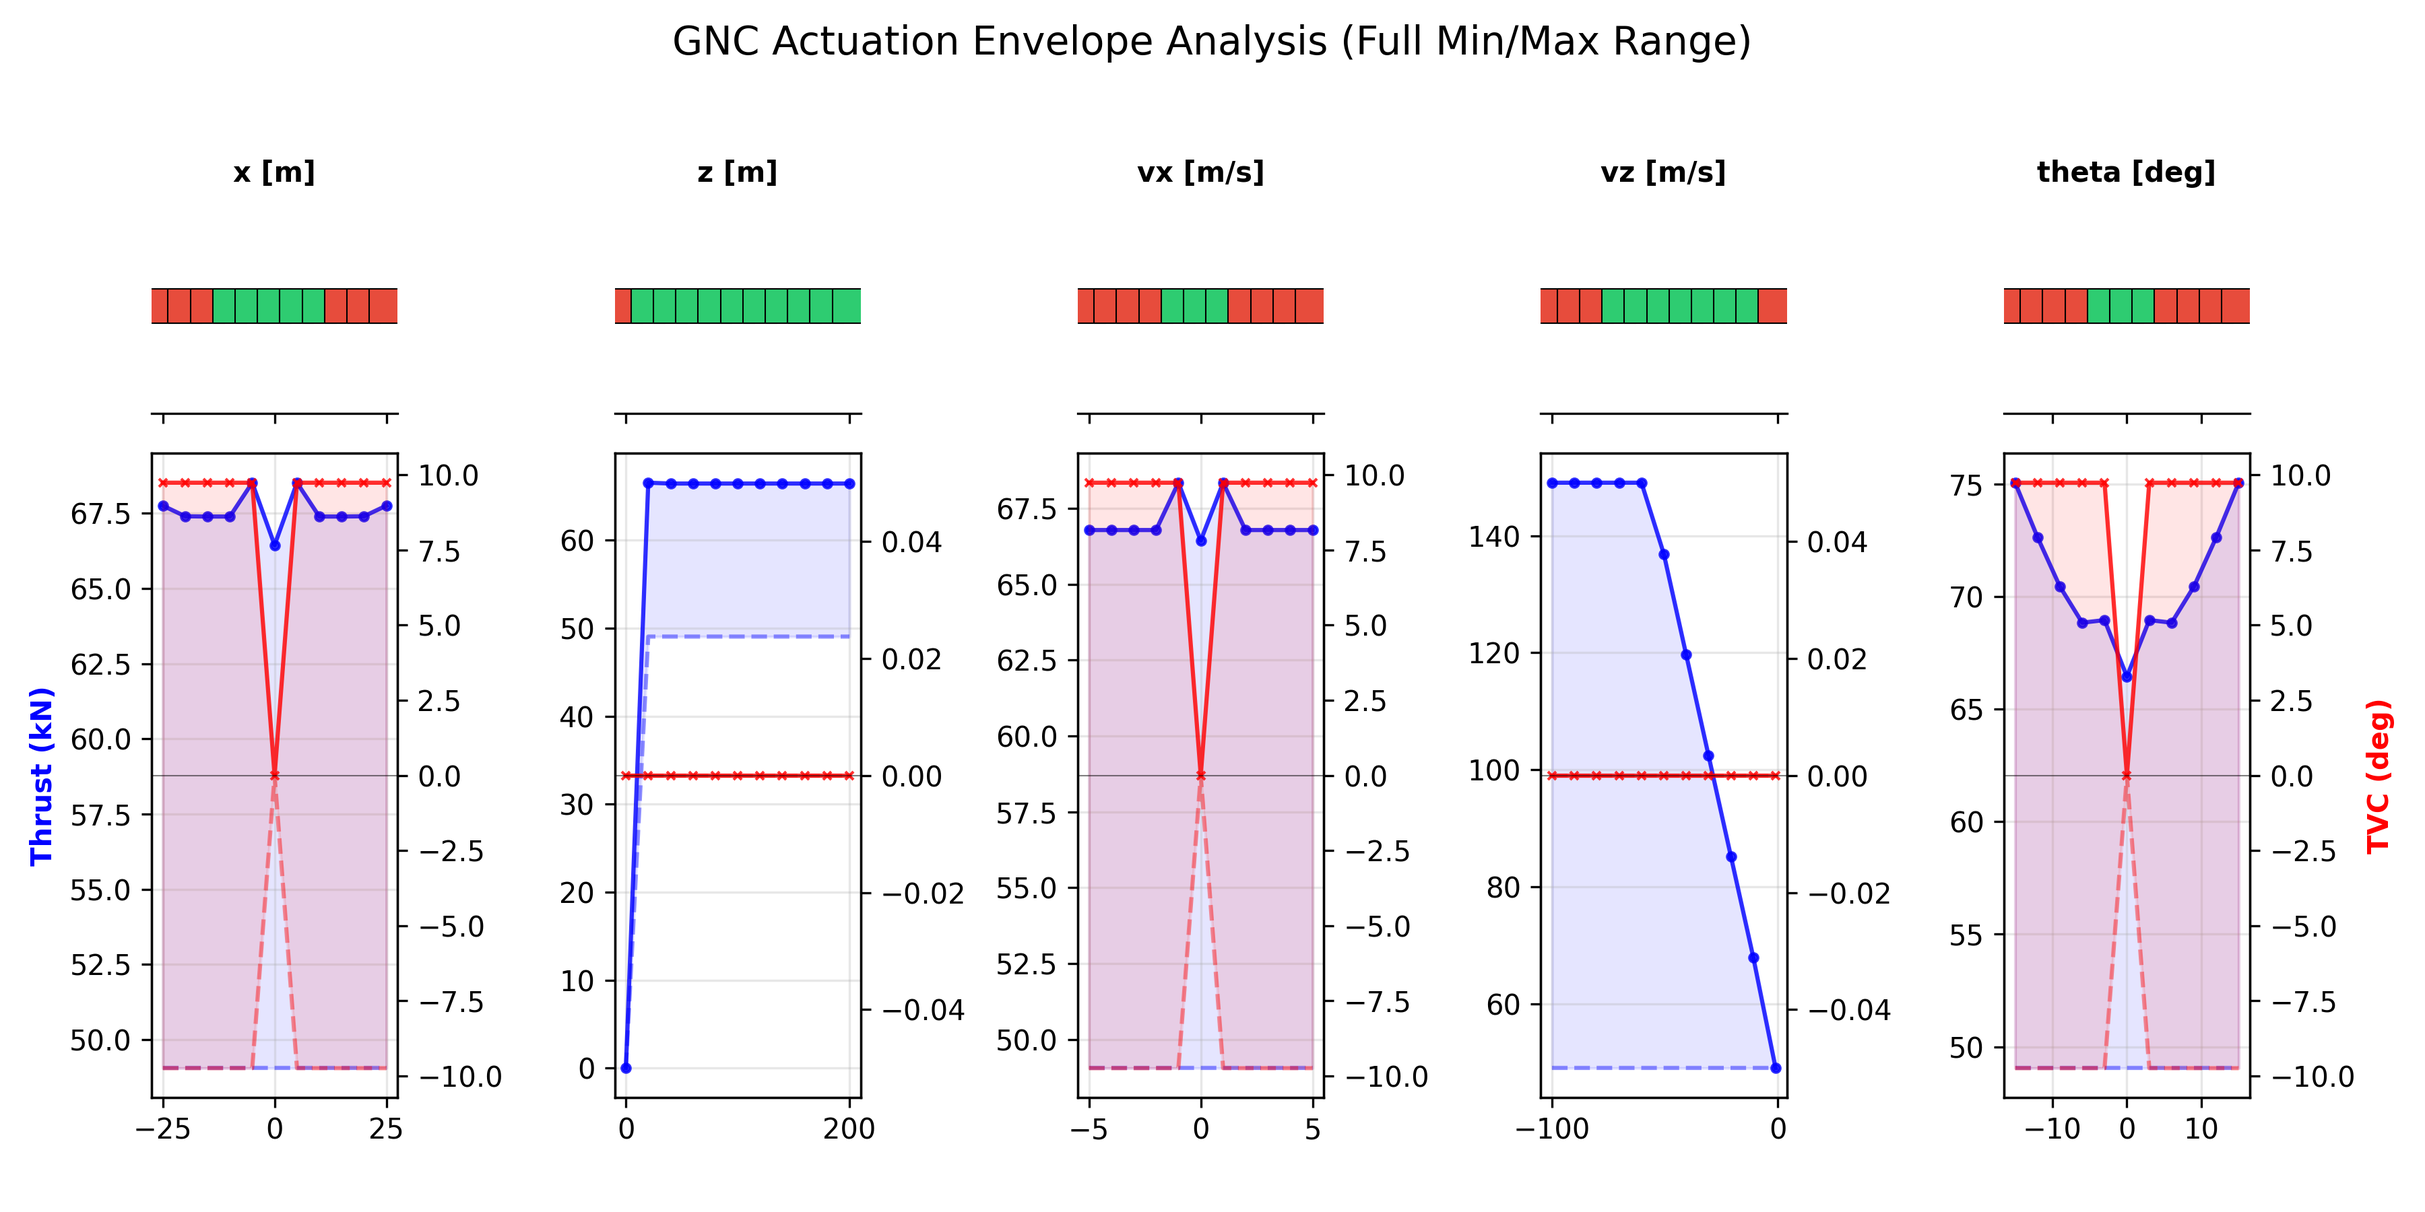
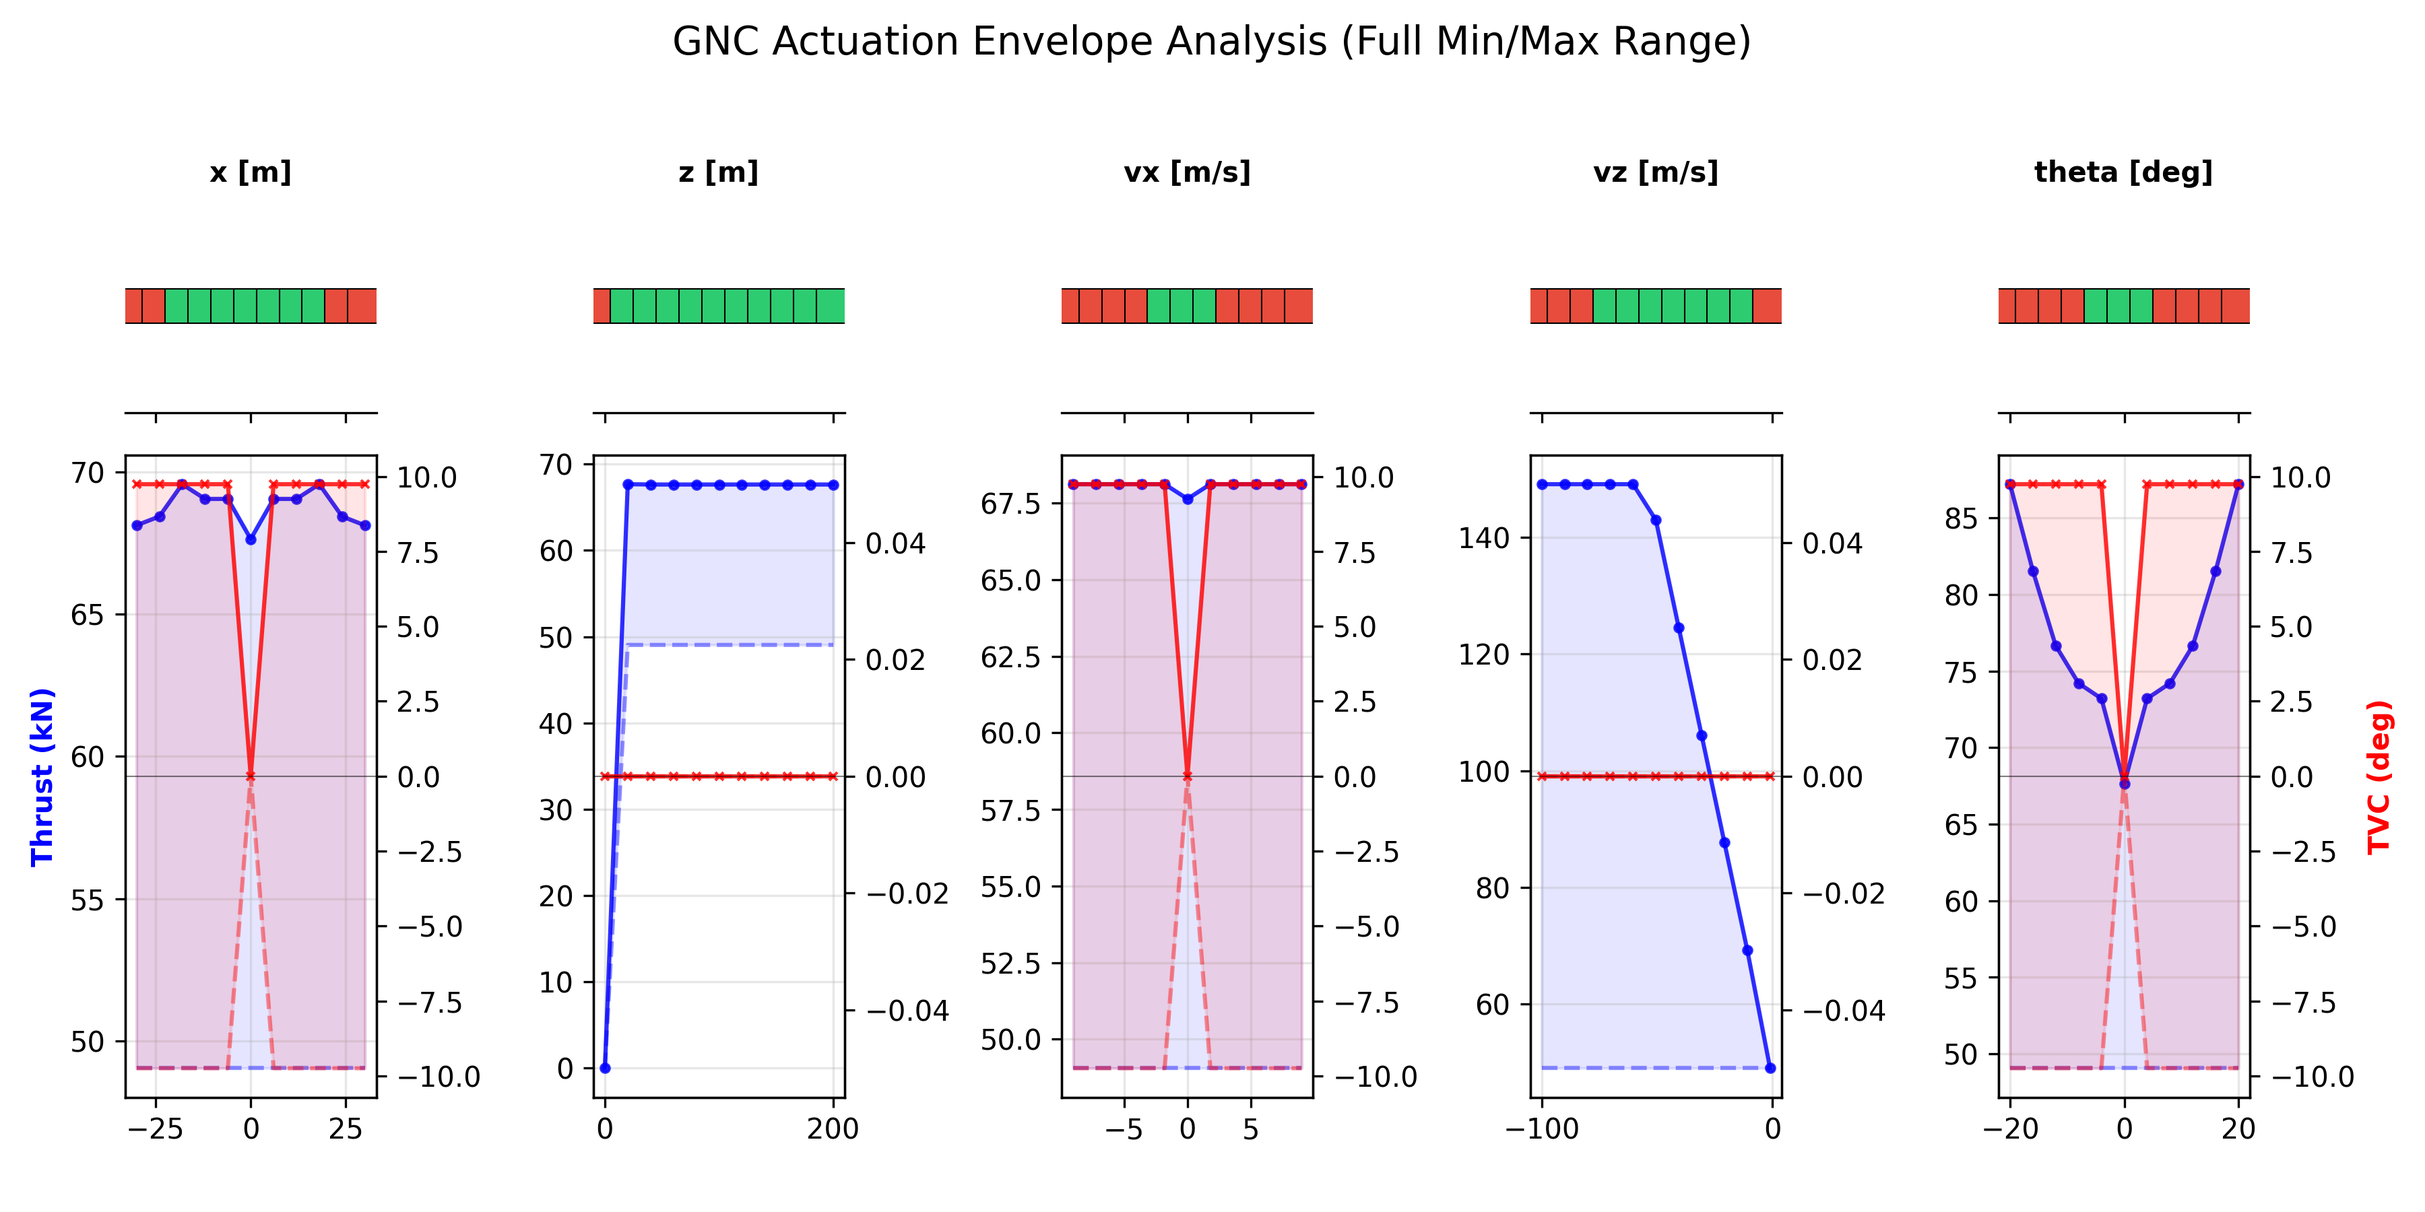
Undone some manual tweaks on gains

diff --git a/src/control/controller.py b/src/control/controller.py
@@ -26,8 +26,8 @@ class FlightController:
         # Position Loop (Outer)
         # Target: x -> commands theta_cmd
         pos = gains['position']
-        self.pos_pid = PID(kp=pos['kp'], ki=pos['ki'], kd=pos['kd'], 
-                           output_limits=(-0.35, 0.35)) # ~20 deg tilt limit
+        self.pos_pid = PID(kp=pos['kp'], ki=pos['ki'], kd=pos['kd'],
+                           output_limits=(-0.02, 0.02)) # ~1 deg tilt limit
         
         # Attitude Loop (Inner)
         # Target: theta -> commands gimbal delta
@@ -35,7 +35,8 @@ class FlightController:
         self.att_pid = PID(kp=att['kp'], ki=att['ki'], kd=att['kd'], 
                            output_limits=(-0.17, 0.17)) # ~10 deg gimbal limit
 
-    def update(self, state, target_state, dt):
+    def update(self, state, target_state, dt,
+               disable_att=False, disable_pos=False, disable_alt=False):
         """
         state: [x, z, theta, vx, vz, vtheta]
         target_state: [x_ref, z_ref, theta_ref, vx_ref, vz_ref, vtheta_ref]
@@ -43,26 +44,24 @@ class FlightController:
         x, z, theta, vx, vz, vtheta = state
         x_ref, z_ref, _, _, vz_ref, _ = target_state
 
-        # --- Horizontal / Rotational Axis (Nested Loop Closure) ---
+        # Horizontal / Rotational Axis (Nested Loop Closure)
         # Outer Loop: Calculate required tilt (theta) to fix lateral position
-        x_error = (x_ref - x)
-        vx_error = (0 - vx) * 4 # Assuming we want 0 lateral speed at the target
-        theta_cmd = self.pos_pid.compute(x_error + vx_error, dt)        
-        theta_cmd /= 15.0
+        theta_cmd = 0
+        if not disable_pos:
+            x_error = (x_ref - x)
+            theta_cmd = self.pos_pid.compute(x_error, dt)
 
-        # landing smoothing
-        z_landing = 1.0
-        if z < z_landing: theta_cmd *= (z - 0.5 * 0) / z_landing
-        
+
         # Inner Loop: Calculate required gimbal (delta) to achieve that tilt
-        att_error = theta_cmd - theta
-        delta_cmd = - self.att_pid.compute(att_error, dt)
-
-        # --- Vertical Axis ---
-        alt_error = z_ref - z
-        vel_error = (vz_ref - vz) * 0.1  # Difference between target speed and current speed
-        # Feedforward: PID correction + Gravity cancellation (feedforward)
-        thrust_cmd = self.alt_pid.compute(alt_error + vel_error, dt) + (self.m * self.g)
+        delta_cmd = 0
+        if not disable_att:
+            att_error = theta_cmd - theta
+            delta_cmd = self.att_pid.compute(att_error, dt)
+            
+        thrust_cmd = self.m * self.g # Gravity cancellation (feedforward)
+        if not disable_alt:
+            alt_error = z_ref - z
+            thrust_cmd += self.alt_pid.compute(alt_error, dt)
 
         return thrust_cmd, delta_cmd, theta_cmd
     
@@ -76,10 +75,7 @@ if __name__ == "__main__":
     # Format: (Scenario Name, [x, z, theta, vx, vz, vtheta])
     scenarios = [
         ("Nominal",                 [ 0.0, 150.0, 0.0 , 0.0, -10.0, 0.00]),
-        ("High Altitude Descent",   [ 3.0, 100.0, 0.01, 0.1, -9.0, 0.01]),
-        ("Lateral Correction",      [-5.0,  50.0, 0.0 , 0.2, -5.0, 0.0]),
-        ("Near Touchdown",          [ 0.5,   0.8, 0.01, 0.1, -1.0, 0.0]),
-        ("Stationary/Hover",        [ 0.0,  20.0, 0.0 , 0.0, 0.0, 0.0]),
+        ("High Altitude Descent",   [ 2.0, 100.0, 0.01, 1.0, -5.0 , 0.01]),
     ]
 
     print("=" * 60)

diff --git a/src/embedded/src/GNCController.cpp b/src/embedded/src/GNCController.cpp
@@ -15,25 +15,15 @@ ControlCommands GNCController::update(const VehicleState& state, float dt) {
 
     // Vertical Axis
     float alt_error = TARGET_Z - state.z;
-    float vel_error = (TARGET_VZ - state.vz) * 0.1f;
-    cmd.thrust_N = alt_pid.compute(alt_error + vel_error, dt_protected) + HOVER_THRUST;
-       
-    // Horizontal / Rotational Axis
-    float x_error = TARGET_X - state.x;
-    float vx_error = (TARGET_VX - state.vx) * 4.0f;
+    cmd.thrust_N = alt_pid.compute(alt_error, dt_protected) + HOVER_THRUST;
     
-    // Outer Loop: Calculate required tilt
-    float theta_cmd = pos_pid.compute(x_error + vx_error, dt_protected) / 15.0f;
-    
-    // Landing Smoothing
-    const float z_landing = 1.0f;
-    if (state.z < z_landing) {
-        theta_cmd *= (state.z) / z_landing;
-    }
+    // Outer Loop: Calculate required tilt   
+    float x_error = TARGET_X - state.x;    
+    float theta_cmd = pos_pid.compute(x_error, dt_protected);
     
     // Inner Loop: Calculate required gimbal (delta)
     float att_error = theta_cmd - state.theta;
-    cmd.tvc_angle_rad = -att_pid.compute(att_error, dt_protected);
+    cmd.tvc_angle_rad = att_pid.compute(att_error, dt_protected);
     
     // Apply safety limits (clamping)
     apply_safety_limits(cmd);
@@ -46,7 +36,7 @@ void GNCController::apply_safety_limits(ControlCommands& commands) {
     commands.thrust_N = std::clamp(commands.thrust_N, MIN_THRUST, MAX_THRUST);
     
     // Clamp TVC to gimbal mechanical stops
-    float max_tvc_rad = MAX_TVC_DEG * (PI / 180.0f);
+    float max_tvc_rad = MAX_TVC_DEG * DEG_TO_RAD;
     commands.tvc_angle_rad = std::clamp(commands.tvc_angle_rad, -max_tvc_rad, max_tvc_rad);
 }
 

diff --git a/src/control/compute_gains.py b/src/control/compute_gains.py
@@ -1,7 +1,7 @@
 def compute_theoretical_gains(rocket,
-                              wn_att=3.0, zeta_att=1.0,
-                              wn_alt=1.0, zeta_alt=1.0,
-                              wn_pos=1.95, zeta_pos=0.3):
+                              wn_att=4.0, zeta_att=0.8,   # Faster, well-damped inner loop
+                              wn_alt=1.0, zeta_alt=1.0,   # Critically damped altitude
+                              wn_pos=0.7, zeta_pos=1.2):  # Large separation from attitude
     """
     Computes theoretical PID/PD gains based on linearized 2nd-order dynamics.
     
@@ -18,16 +18,16 @@ def compute_theoretical_gains(rocket,
     # Based on m*z_ddot + Kd*z_dot + Kp*z = 0
     kp_alt = rocket.m * (wn_alt**2)
     kd_alt = 2 * zeta_alt * wn_alt * rocket.m
-    ki_alt = 0.0 # 0.5 * kp_alt
+    ki_alt = 0.0
     
     # Attitude Gains (Inner Loop)
     # Based on J*theta_ddot + (T*l*Kd)*theta_dot + (T*l*Kp)*theta = 0
     # We assume a nominal thrust (T) equal to hover weight (m*g)
     T_hover = rocket.m * rocket.g
     
-    kp_att = (rocket.J * (wn_att**2)) / (T_hover * rocket.l)
-    kd_att = (2 * zeta_att * wn_att * rocket.J) / (T_hover * rocket.l)
-    ki_att = 0.0  # Usually kept at 0 for inner loop stability
+    kp_att = -(rocket.J * (wn_att**2)) / (T_hover * rocket.l)
+    kd_att = -(2 * zeta_att * wn_att * rocket.J) / (T_hover * rocket.l)
+    ki_att = 0.0
     
     # Position Gains (Outer Loop)
     # Based on x_ddot = g * theta -> Kp_pos = wn^2 / g

diff --git a/src/embedded/tests/test_gnc_embedded.cpp b/src/embedded/tests/test_gnc_embedded.cpp
@@ -19,29 +19,14 @@ TEST_F(GNCConsistencyTest, Nominal) {
 }
 
 TEST_F(GNCConsistencyTest, HighAltitudeDescent) {
-    RocketGNC::VehicleState state = {3.0f, 100.0f, 0.1f, 0.1f, -9.0f, 0.01f};
+    RocketGNC::VehicleState state = {2.0f, 100.0f, 0.01f, 1.0f, -5.0f, 0.01f};
     auto cmd = controller.update(state, dt);
     // Note: If your code outputs 68000, keep it. If it outputs 49050, update here.
     EXPECT_NEAR(cmd.thrust_N, 49050.0f, 1.0f);
     EXPECT_NEAR(cmd.tvc_angle_rad, 0.17f, 0.005f);
 }
 
-TEST_F(GNCConsistencyTest, LateralCorrection) {
-    RocketGNC::VehicleState state = {-5.0f, 50.0f, 0.0f, 0.2f, -5.0f, 0.0f};
-    auto cmd = controller.update(state, dt);
-    EXPECT_NEAR(cmd.thrust_N, 49050.0f, 1.0f);
-    EXPECT_NEAR(cmd.tvc_angle_rad, -0.17f, 0.005f);
-}
-
-TEST_F(GNCConsistencyTest, NearTouchdown) {
-    RocketGNC::VehicleState state = {0.5f, 0.8f, 0.01f, 0.1f, -1.0f, 0.0f};
-    auto cmd = controller.update(state, dt);
-    // Fixed: Based on your error log, the controller returned 49050 (Hover Thrust)
-    EXPECT_NEAR(cmd.thrust_N, 49050.0f, 1.0f); 
-    EXPECT_NEAR(cmd.tvc_angle_rad, 0.17f, 0.005f);
-}
-
-TEST_F(GNCConsistencyTest, StationaryHover) {
+TEST_F(GNCConsistencyTest, Hover) {
     RocketGNC::VehicleState state = {0.0f, 20.0f, 0.0f, 0.0f, 0.0f, 0.0f};
     auto cmd = controller.update(state, dt);
     EXPECT_NEAR(cmd.thrust_N, 49050.0f, 1.0f);

diff --git a/src/embedded/include/GNCController.hpp b/src/embedded/include/GNCController.hpp
@@ -40,22 +40,19 @@ public:
     static constexpr float TARGET_VZ = -0.5f;
     static constexpr float TARGET_VT = 0.0f;
 
-    /** * TUNED CONTROL GAINS 
-     * Hardcoding these as constexpr ensures they reside in read-only memory.
-     * Replace these values with the output from your Python gain script.
-     */
-    static constexpr float KP_Z = 5000.0f;
+    // CONTROL GAINS
+    static constexpr float KP_Z =  5000.0f;
     static constexpr float KD_Z = 10000.0f; 
     
-    static constexpr float KP_T = 45.8716f;
-    static constexpr float KD_T = 30.5810f;
+    static constexpr float KP_T = -81.5494f;
+    static constexpr float KD_T = -32.6198f;
     
-    static constexpr float KP_X = 0.3876f;
-    static constexpr float KD_X = 0.1193f;
+    static constexpr float KP_X = 0.0499f;
+    static constexpr float KD_X = 0.1713f;
 
     static constexpr float MAX_TCMD_Z = 100000.0f; // thrust_cmd max saturation on altitude controller (rad)
     static constexpr float MIN_TCMD_Z = 0.0f; // thrust_cmd max saturation on altitude controller (rad)
-    static constexpr float MAX_TCMD_X = 0.35f; // theta_cmd saturation on position controller (rad)
+    static constexpr float MAX_TCMD_X = 0.02f; // theta_cmd saturation on position controller (rad)
     static constexpr float MAX_TCMD_T = 0.17f; // theta_cmd saturation on attitude controller (rad)
 
     GNCController() :

diff --git a/tests/test_all_controllers.py b/tests/test_all_controllers.py
@@ -1,16 +1,16 @@
 import pytest
 import numpy as np
-from src.model.sim import RocketSimulator
+from src.helper.sim import RocketSimulator
 
 @pytest.fixture
 def simulator():
     return RocketSimulator()
 
 @pytest.mark.parametrize("x0, z0, theta0, vx0, vz0, vtheta0", [
-    (5.0, 150.0, 0.0, 0.0, -10.0, 0.0),             # Lateral offset
+    (0.0, 150.0, 0.0, 0.0, -10.0, 0.0),             # Nominal scenario
+    (0.75, 150.0, 0.0, 0.0, -10.0, 0.0),            # Lateral offset
     (0.0, 150.0, np.deg2rad(5), 0.0, -10.0, 0.0),   # Initial tilt
-    (0.0, 150.0, 0.0, 1.0, -10.0, 0.0),             # Lateral velocity
-    (5.0, 150.0, np.deg2rad(-3), -0.5, -11.0, 0.0), # Combined dispersion
+    (0.0, 150.0, 0.0, 0.4, -10.0, 0.0),             # Lateral velocity
 ])
 def test_full_system_convergence(simulator, x0, z0, theta0, vx0, vz0, vtheta0):
     """
@@ -18,11 +18,11 @@ def test_full_system_convergence(simulator, x0, z0, theta0, vx0, vz0, vtheta0):
     using the RocketSimulator orchestration.
     """
     history = simulator.run(
-        x=x0, 
-        z=z0, 
-        theta=theta0, 
-        vx=vx0, 
-        vz=vz0, 
+        x=x0,
+        z=z0,
+        theta=theta0,
+        vx=vx0,
+        vz=vz0,
         vtheta=vtheta0
     )
     success, report = simulator.check_landing_criteria(history)

diff --git a/src/embedded/include/PID.hpp b/src/embedded/include/PID.hpp
@@ -11,11 +11,17 @@ public:
                  std::optional<float> min_out = std::nullopt, 
                  std::optional<float> max_out = std::nullopt)
         : kp(kp), ki(ki), kd(kd), min_limit(min_out), max_limit(max_out),
-          integral(0.0f), prev_error(0.0f), last_output(0.0f) {}
+          integral(0.0f), prev_error(0.0f), last_output(0.0f), initialized(false) {}
 
     float compute(float error, float dt) noexcept {
         // Division by zero protection & clock glitch recovery
         if (dt <= 0.0f) return last_output;
+
+        if (!initialized) {
+            // Prevent a huge derivative spike (derivative kick).
+            prev_error = error;
+            initialized = true;
+        }
 
         // Proportional
         float p_term = kp * error;
@@ -47,6 +53,7 @@ public:
         integral = 0.0f;
         prev_error = 0.0f;
         last_output = 0.0f;
+        initialized = false;
     }
 
 private:
@@ -56,6 +63,7 @@ private:
     float integral;
     float prev_error;
     float last_output;
+    bool initialized;
 };
 
 } // namespace RocketGNC

diff --git a/src/helper/sim.py b/src/helper/sim.py
@@ -9,8 +9,10 @@ class RocketSimulator:
         self.dt = dt
         self.t_max = t_max
         self.target_state = np.array(target_state)
+        self.target_state[1] += 0.5
         
-    def run(self, *, x=0.0, z=150.0, vx=0.0, vz=-10.0, theta=0.0, vtheta=0.0):
+    def run(self, *, x=0.0, z=150.0, vx=0.0, vz=-10.0, theta=0.0, vtheta=0.0,
+            disable_att=False, disable_pos=False, disable_alt=False):
         """
         Executes a single simulation run and returns the trajectory history.
         """
@@ -33,7 +35,8 @@ class RocketSimulator:
                 break
                 
             # GNC Update
-            thrust, delta, theta_cmd = controller.update(curr_state, self.target_state, self.dt)
+            thrust, delta, theta_cmd = controller.update(curr_state, self.target_state, self.dt,
+                                                        disable_att, disable_pos, disable_alt)
             
             # Apply Actuation
             rocket.set_thrust_magnitude(thrust)

diff --git a/tests/test_attitude_controller.py b/tests/test_attitude_controller.py
@@ -1,18 +1,18 @@
 import numpy as np
 import pytest
-from src.model.sim import RocketSimulator
+from src.helper.sim import RocketSimulator
 
 @pytest.fixture
 def simulator():
     return RocketSimulator()
 
-@pytest.mark.parametrize("initial_theta", [0.0, 0.1, -0.2])
+@pytest.mark.parametrize("initial_theta", [0.1, 0.2, 0.3, 0.4, 0.5,])
 def test_attitude_stabilization_on_landing(simulator, initial_theta):
     """
     Verifies that the rocket recovers to a vertical orientation 
     and lands softly regardless of initial tip angle, ignoring 
     lateral translation errors.
     """    
-    history = simulator.run(theta=np.deg2rad(initial_theta))
+    history = simulator.run(theta=np.deg2rad(initial_theta), disable_pos=True)
     success, report = simulator.check_landing_criteria(history)    
     assert success, f"Landing failed! Failure Report: {report}"

diff --git a/src/model/integrator.py b/src/model/integrator.py
@@ -42,16 +42,15 @@ class HeunIntegrator:
         # Save initial state to revert after prediction
         initial_state = self.model.state.copy()
 
-        # --- Step 1: Predictor (Standard Euler step) ---
+        # Predictor (Standard Euler step)
         k1 = self.model.get_derivatives()
         state_predictor = initial_state + k1 * dt
         
-        # --- Step 2: Corrector ---
-        # Temporarily set the model to the predicted state to get future derivatives
+        # Corrector
         self.model.set_state(state_predictor)
         k2 = self.model.get_derivatives()
         
-        # Average the slopes and apply to the ORIGINAL state
+        # Average the slopes and apply to the original state
         new_state = initial_state + (0.5 * (k1 + k2) * dt)
         
         # Update model to the final corrected state

diff --git a/main.py b/main.py
@@ -1,15 +1,11 @@
-from src.model.sim import RocketSimulator
+from src.helper.sim import RocketSimulator
 from src.helper.plots import plot_flight
-import numpy as np
 
 def run_simulation():
-    # Setup Environment and Vehicle
     sim = RocketSimulator(dt=0.02, t_max=35.0,
-                 target_state=[0.0, 0.0, 0.0, 0.0, -0.5, 0.0])
-    
-    # Starting at 150m with a 10m/s descent rate
-    # history = sim.run(x=5.0, z=150.0, vz=-10.0, theta=0.0)
-    history = sim.run(x=3.0, z=150.0, vz=-10.0, theta=np.deg2rad(1.0))
+            target_state=[0.0, 0.0, 0.0, 0.0, -0.5, 0.0])
+        
+    history = sim.run()
     
     success, report = sim.check_landing_criteria(history)    
     print(f"Landing Success: {success}")

diff --git a/src/control/pid.py b/src/control/pid.py
@@ -6,7 +6,7 @@ class PID:
         self.output_limits = output_limits
         
         self.integral = 0.0
-        self.prev_error = 0.0
+        self.prev_error = None
         
     def compute(self, error, dt):
         if dt <= 0: return 0.0
@@ -19,7 +19,11 @@ class PID:
         i_term = self.ki * self.integral
         
         # Derivative
-        d_term = self.kd * (error - self.prev_error) / dt
+        if self.prev_error:
+            d_term = self.kd * (error - self.prev_error) / dt
+        else:
+            d_term = 0
+
         self.prev_error = error
         
         output = p_term + i_term + d_term
